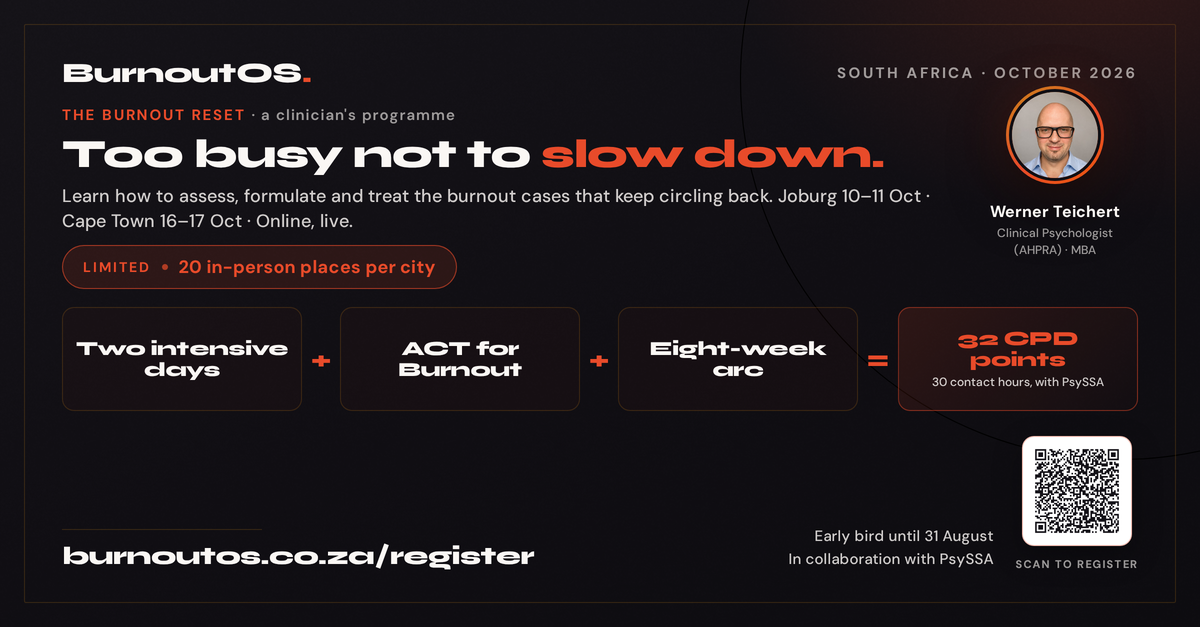
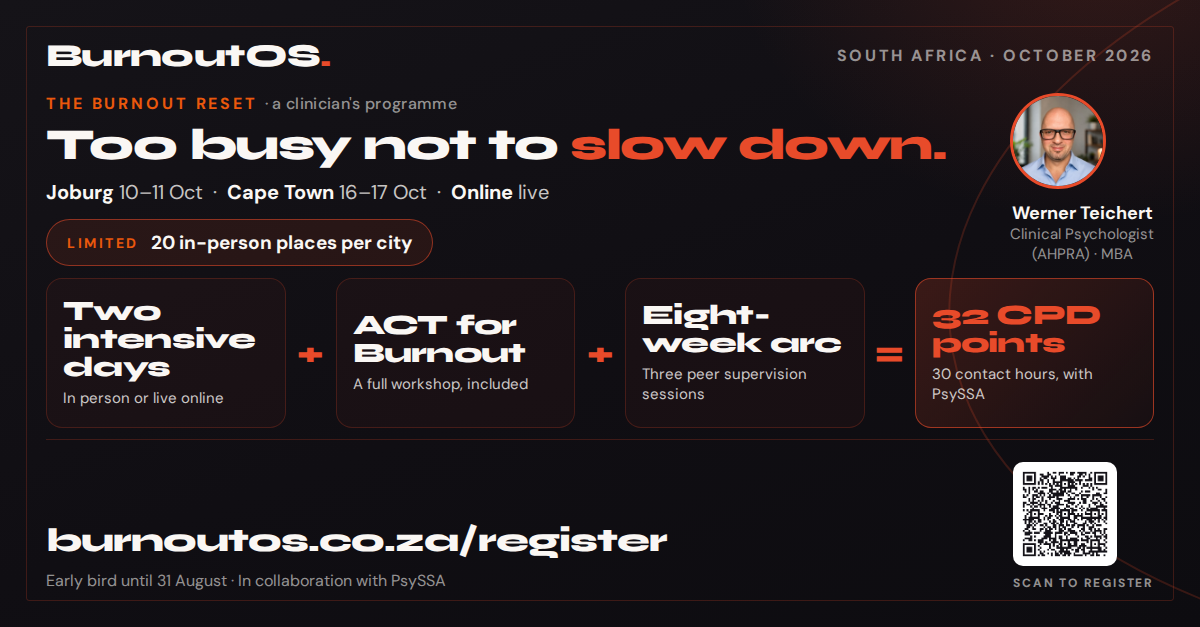
Rebuild SA tour posters with the value stack as the hero element
The equation was rendering as a thin band at the bottom of each poster
while the headline dominated. On the squares the four cards sat in a
single row, giving each card roughly 215px of width and forcing the
labels onto three lines at small type.

Squares now lay the stack out 2x2, which roughly doubles card width and
lets the card titles set at 38px instead of 26px. The stack occupies 35%
of the square and 24% of the landscape, against roughly 18% before.

Source HTML committed alongside the renders so this set is reproducible.
QR codes regenerated at lower density and verified to decode to /register
with the per-channel utm_content tag intact.

Changed region(s): [[0.0308, 0.0303, 0.9867, 0.6667], [0.0308, 0.3333, 0.9867, 0.9697]]

diff --git a/public/posters/sa-tour-posters.html b/public/posters/sa-tour-posters.html
@@ -1,0 +1,263 @@
+<!doctype html>
+<html lang="en-ZA">
+<head>
+<meta charset="utf-8">
+<title>SA Tour posters — source of truth</title>
+<link href="https://fonts.googleapis.com/css2?family=Syne:wght@700;800&family=DM+Sans:wght@400;500;700&display=swap" rel="stylesheet">
+<style>
+:root{
+  --ember:#e84b2a; --ember2:#EA580C; --ink:#141218; --cream:#FAF7F4;
+  --fg:#FAF7F4; --fg-mut:rgba(250,247,244,0.80); --fg-dim:rgba(250,247,244,0.58);
+  --line:rgba(232,75,42,0.22);
+}
+*{margin:0;padding:0;box-sizing:border-box;-webkit-font-smoothing:antialiased;}
+body{background:#2a2a2a;display:flex;flex-wrap:wrap;gap:40px;padding:40px;font-family:'DM Sans',sans-serif;}
+
+.poster{position:relative;overflow:hidden;color:var(--fg);
+  background:radial-gradient(680px 520px at 92% -10%,rgba(232,75,42,0.16),transparent 55%),
+             linear-gradient(160deg,#151318 0%,#100e13 55%,#0d0c10 100%);}
+.sq{width:1080px;height:1080px;}
+.wide{width:1200px;height:627px;}
+.rule{position:absolute;inset:26px;border:1px solid var(--line);border-radius:3px;z-index:2;}
+.arc{position:absolute;z-index:1;pointer-events:none;}
+.inner{position:relative;z-index:6;height:100%;display:flex;flex-direction:column;}
+.sq .inner{padding:54px 58px;}
+.wide .inner{padding:36px 46px;}
+
+.topbar{display:flex;justify-content:space-between;align-items:center;}
+.wm{font-family:'Syne',sans-serif;font-weight:800;letter-spacing:-0.02em;}
+.sq .wm{font-size:38px;} .wide .wm{font-size:32px;}
+.wm .dot{color:var(--ember);}
+.region{font-weight:700;letter-spacing:0.16em;text-transform:uppercase;color:var(--fg-dim);}
+.sq .region{font-size:19px;} .wide .region{font-size:16px;}
+
+.eyebrow{font-weight:700;letter-spacing:0.18em;text-transform:uppercase;color:var(--ember2);}
+.eyebrow .muted{color:var(--fg-dim);letter-spacing:0.02em;text-transform:none;font-weight:500;}
+.sq .eyebrow{font-size:19px;} .wide .eyebrow{font-size:16px;}
+
+h1{font-family:'Syne',sans-serif;font-weight:800;letter-spacing:-0.035em;line-height:0.94;}
+.sq h1{font-size:54px;} .wide h1{font-size:44px;}
+h1 .em{color:var(--ember);}
+
+.head{display:flex;justify-content:space-between;align-items:flex-start;gap:28px;}
+.face{flex-shrink:0;text-align:center;}
+.face img{border-radius:50%;object-fit:cover;border:3px solid var(--ember);display:block;}
+.sq .face img{width:118px;height:118px;} .wide .face img{width:96px;height:96px;}
+.face .nm{font-weight:700;margin-top:12px;}
+.face .cr{color:var(--fg-dim);line-height:1.3;}
+.sq .face .nm{font-size:21px;} .sq .face .cr{font-size:17px;}
+.wide .face .nm{font-size:18px;} .wide .face .cr{font-size:15px;}
+
+.dates{color:var(--fg-mut);}
+.dates b{color:var(--fg);font-weight:700;}
+.sq .dates{font-size:23px;} .wide .dates{font-size:20px;}
+
+.pill{display:inline-flex;align-items:center;gap:12px;align-self:flex-start;
+  border:1px solid rgba(232,75,42,0.55);border-radius:100px;background:rgba(232,75,42,0.10);}
+.sq .pill{padding:13px 26px;} .wide .pill{padding:10px 20px;}
+.pill .lb{font-weight:700;letter-spacing:0.18em;text-transform:uppercase;color:var(--ember2);}
+.pill .tx{font-weight:700;color:var(--fg);}
+.sq .pill .lb{font-size:17px;} .sq .pill .tx{font-size:23px;}
+.wide .pill .lb{font-size:14px;} .wide .pill .tx{font-size:19px;}
+
+/* ---- value stack: the hero element ---- */
+.stack{display:flex;flex-direction:column;}
+.srow{display:flex;align-items:stretch;}
+.sq .srow{gap:16px;} .wide .srow{gap:12px;}
+.card{flex:1 1 0;border:1px solid var(--line);border-radius:16px;
+  background:rgba(232,75,42,0.045);display:flex;flex-direction:column;justify-content:center;}
+.sq .card{padding:24px 24px;} .wide .card{padding:18px 16px;}
+.card.sum{border-color:rgba(232,75,42,0.60);
+  background:linear-gradient(135deg,rgba(232,75,42,0.20) 0%,rgba(232,75,42,0.04) 100%);}
+.card .t{font-family:'Syne',sans-serif;font-weight:800;letter-spacing:-0.025em;line-height:1.0;}
+.sq .card .t{font-size:38px;} .wide .card .t{font-size:28px;}
+.card.sum .t{color:var(--ember);}
+.card .s{color:var(--fg-mut);line-height:1.32;}
+.sq .card .s{font-size:19px;margin-top:10px;} .wide .card .s{font-size:15px;margin-top:8px;}
+.op{font-family:'Syne',sans-serif;font-weight:800;color:var(--ember);
+  display:flex;align-items:center;justify-content:center;flex-shrink:0;}
+.sq .op{font-size:46px;width:34px;} .wide .op{font-size:34px;width:26px;}
+
+.spacer{flex:1;}
+.foot{display:flex;justify-content:space-between;align-items:flex-end;gap:28px;
+  border-top:1px solid var(--line);}
+.sq .foot{padding-top:24px;} .wide .foot{padding-top:22px;}
+.url{font-family:'Syne',sans-serif;font-weight:800;letter-spacing:-0.03em;}
+.sq .url{font-size:37px;} .wide .url{font-size:33px;}
+.sub{color:var(--fg-dim);margin-top:10px;}
+.sq .sub{font-size:20px;} .wide .sub{font-size:16px;}
+.qr{text-align:center;flex-shrink:0;}
+.qr img{border-radius:10px;display:block;background:#fff;}
+.sq .qr img{width:128px;height:128px;padding:7px;}
+.wide .qr img{width:104px;height:104px;padding:6px;}
+.qr .cap{font-weight:700;letter-spacing:0.15em;text-transform:uppercase;color:var(--fg-dim);margin-top:9px;}
+.sq .qr .cap{font-size:14px;} .wide .qr .cap{font-size:12px;}
+</style>
+</head>
+<body>
+
+<!-- ============ WHATSAPP 1080x1080 ============ -->
+<div class="poster sq" id="p-whatsapp">
+  <div class="rule"></div>
+  <svg class="arc" width="1080" height="1080" viewBox="0 0 1080 1080" fill="none">
+    <path d="M1180 -40 C 700 180, 640 640, 1120 900" stroke="rgba(232,75,42,0.20)" stroke-width="2"/>
+  </svg>
+  <div class="inner">
+    <div class="topbar">
+      <div class="wm">BurnoutOS<span class="dot">.</span></div>
+      <div class="region">South Africa &middot; Oct 2026</div>
+    </div>
+    <div style="height:30px"></div>
+    <div class="head">
+      <div>
+        <div class="eyebrow">The Burnout Reset <span class="muted">&middot; a clinician's programme</span></div>
+        <div style="height:16px"></div>
+        <h1>Too busy not to<br><span class="em">slow down.</span></h1>
+      </div>
+      <div class="face">
+        <img src="../brand/werner-hero.jpg" alt="">
+        <div class="nm">Werner Teichert</div>
+        <div class="cr">Clinical Psychologist<br>(AHPRA) &middot; MBA</div>
+      </div>
+    </div>
+    <div style="height:22px"></div>
+    <div class="dates"><b>Joburg</b> 10&ndash;11 Oct &nbsp;&middot;&nbsp; <b>Cape Town</b> 16&ndash;17 Oct &nbsp;&middot;&nbsp; <b>Online</b> live</div>
+    <div style="height:22px"></div>
+    <div class="pill"><span class="lb">Limited</span><span class="tx">20 in-person places per city</span></div>
+
+    <div class="spacer"></div>
+    <div class="stack">
+      <div class="srow">
+        <div class="card"><div class="t">Two intensive days</div><div class="s">Joburg, Cape Town, or live online</div></div>
+        <div class="op">+</div>
+        <div class="card"><div class="t">ACT for Burnout</div><div class="s">A full workshop, included</div></div>
+      </div>
+      <div style="height:16px"></div>
+      <div class="srow">
+        <div class="card"><div class="t">Eight-week arc</div><div class="s">Three peer supervision sessions</div></div>
+        <div class="op">=</div>
+        <div class="card sum"><div class="t">32 CPD points</div><div class="s">30 contact hours, with PsySSA</div></div>
+      </div>
+    </div>
+    <div class="spacer"></div>
+
+    <div class="foot">
+      <div>
+        <div class="url">burnoutos.co.za/register</div>
+        <div class="sub">Early bird until 31 August &middot; In collaboration with PsySSA</div>
+      </div>
+      <div class="qr"><img src="qr/qr-whatsapp.png" alt=""><div class="cap">Scan to register</div></div>
+    </div>
+  </div>
+</div>
+
+<!-- ============ FACEBOOK GROUPS 1080x1080 ============ -->
+<div class="poster sq" id="p-facebook">
+  <div class="rule"></div>
+  <svg class="arc" width="1080" height="1080" viewBox="0 0 1080 1080" fill="none">
+    <path d="M1180 -40 C 700 180, 640 640, 1120 900" stroke="rgba(232,75,42,0.20)" stroke-width="2"/>
+  </svg>
+  <div class="inner">
+    <div class="topbar">
+      <div class="wm">BurnoutOS<span class="dot">.</span></div>
+      <div class="region">South Africa &middot; Oct 2026</div>
+    </div>
+    <div style="height:30px"></div>
+    <div class="head">
+      <div>
+        <div class="eyebrow">The Burnout Reset <span class="muted">&middot; a clinician's programme</span></div>
+        <div style="height:16px"></div>
+        <h1>Too busy not to<br><span class="em">slow down.</span></h1>
+      </div>
+      <div class="face">
+        <img src="../brand/werner-hero.jpg" alt="">
+        <div class="nm">Werner Teichert</div>
+        <div class="cr">Clinical Psychologist<br>(AHPRA) &middot; MBA</div>
+      </div>
+    </div>
+    <div style="height:22px"></div>
+    <div class="dates"><b>Joburg</b> 10&ndash;11 Oct &nbsp;&middot;&nbsp; <b>Cape Town</b> 16&ndash;17 Oct &nbsp;&middot;&nbsp; <b>Online</b> live</div>
+    <div style="height:22px"></div>
+    <div class="pill"><span class="lb">Limited</span><span class="tx">20 in-person places per city</span></div>
+
+    <div class="spacer"></div>
+    <div class="stack">
+      <div class="srow">
+        <div class="card"><div class="t">Two intensive days</div><div class="s">Joburg, Cape Town, or live online</div></div>
+        <div class="op">+</div>
+        <div class="card"><div class="t">ACT for Burnout</div><div class="s">A full workshop, included</div></div>
+      </div>
+      <div style="height:16px"></div>
+      <div class="srow">
+        <div class="card"><div class="t">Eight-week arc</div><div class="s">Three peer supervision sessions</div></div>
+        <div class="op">=</div>
+        <div class="card sum"><div class="t">32 CPD points</div><div class="s">30 contact hours, with PsySSA</div></div>
+      </div>
+    </div>
+    <div class="spacer"></div>
+
+    <div class="foot">
+      <div>
+        <div class="url">burnoutos.co.za/register</div>
+        <div class="sub">Early bird until 31 August &middot; In collaboration with PsySSA</div>
+      </div>
+      <div class="qr"><img src="qr/qr-facebook.png" alt=""><div class="cap">Scan to register</div></div>
+    </div>
+  </div>
+</div>
+
+<!-- ============ LINKEDIN 1200x627 ============ -->
+<div class="poster wide" id="p-linkedin">
+  <div class="rule"></div>
+  <svg class="arc" width="1200" height="627" viewBox="0 0 1200 627" fill="none">
+    <path d="M1300 -60 C 860 120, 820 480, 1260 620" stroke="rgba(232,75,42,0.20)" stroke-width="2"/>
+  </svg>
+  <div class="inner">
+    <div class="topbar">
+      <div class="wm">BurnoutOS<span class="dot">.</span></div>
+      <div class="region">South Africa &middot; October 2026</div>
+    </div>
+    <div style="height:18px"></div>
+    <div class="head">
+      <div>
+        <div class="eyebrow">The Burnout Reset <span class="muted">&middot; a clinician's programme</span></div>
+        <div style="height:10px"></div>
+        <h1>Too busy not to <span class="em">slow down.</span></h1>
+        <div style="height:14px"></div>
+        <div class="dates"><b>Joburg</b> 10&ndash;11 Oct &nbsp;&middot;&nbsp; <b>Cape Town</b> 16&ndash;17 Oct &nbsp;&middot;&nbsp; <b>Online</b> live</div>
+        <div style="height:14px"></div>
+        <div class="pill"><span class="lb">Limited</span><span class="tx">20 in-person places per city</span></div>
+      </div>
+      <div class="face">
+        <img src="../brand/werner-hero.jpg" alt="">
+        <div class="nm">Werner Teichert</div>
+        <div class="cr">Clinical Psychologist<br>(AHPRA) &middot; MBA</div>
+      </div>
+    </div>
+
+    <div class="spacer"></div>
+    <div class="stack">
+      <div class="srow">
+        <div class="card"><div class="t">Two intensive days</div><div class="s">In person or live online</div></div>
+        <div class="op">+</div>
+        <div class="card"><div class="t">ACT for Burnout</div><div class="s">A full workshop, included</div></div>
+        <div class="op">+</div>
+        <div class="card"><div class="t">Eight-week arc</div><div class="s">Three peer supervision sessions</div></div>
+        <div class="op">=</div>
+        <div class="card sum"><div class="t">32 CPD points</div><div class="s">30 contact hours, with PsySSA</div></div>
+      </div>
+    </div>
+    <div class="spacer"></div>
+
+    <div class="foot">
+      <div>
+        <div class="url">burnoutos.co.za/register</div>
+        <div class="sub">Early bird until 31 August &middot; In collaboration with PsySSA</div>
+      </div>
+      <div class="qr"><img src="qr/qr-linkedin.png" alt=""><div class="cap">Scan to register</div></div>
+    </div>
+  </div>
+</div>
+
+</body>
+</html>
